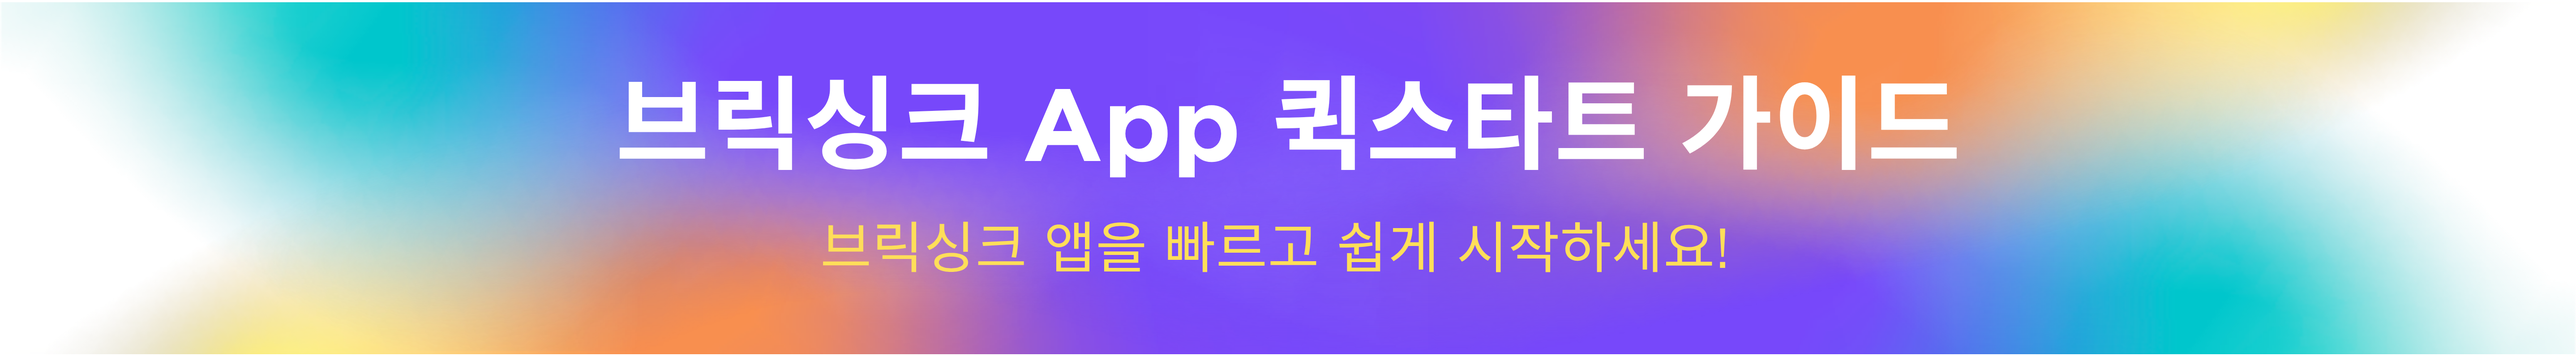
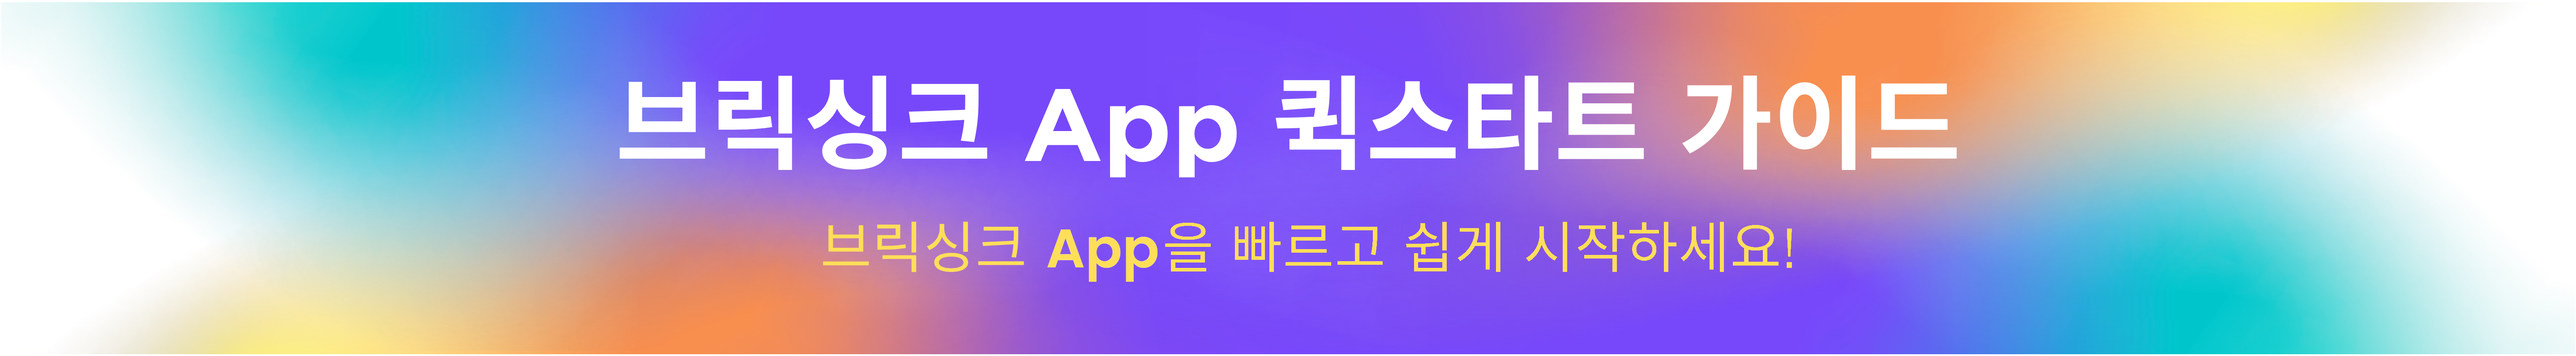
Standardize app branding to "브릭싱크 App" and drop News nav item
Unifies the mixed "BrickSync 앱" / "브릭싱크 앱" wording across the About
page (title, section heading, quickstart banner subtitle, alt text) and
the tech nav submenu to a single consistent "브릭싱크 App". The two
about_overview_ko.png / about_startguide_banner.png banners are edited
in place to match, matching each banner's own font, weight, and color.
Also removes the now-unused "알림 & 뉴스" nav submenu entry.

Changed region(s): [[0.4045, 0.603, 0.7156, 0.7839]]

diff --git a/src/components/AboutPage.jsx b/src/components/AboutPage.jsx
@@ -4,12 +4,12 @@ import { Footer } from './Footer';
 
 const COPY = {
   ko: {
-    title: "BrickSync 앱",
+    title: "브릭싱크 App",
     subtitle: "레고 스파이크 + 레고 포트나이트",
     body1: "브릭싱크는 레고 스파이크 하드웨어와 웹 기반 AI 제스처, 음성, 비전 인식기술을 결합하여 UEFN 기반의 포트나이트 맵 '더 브릭 아일랜드'와 실시간 상호작용을 가능하게 하는 혁신적인 Physics + Digital 컴퓨팅 및 AI 코딩 교육 플랫폼입니다.",
     body2: "학생들이 직관적인 아이콘 블록 코딩으로 만든 AI 알고리즘을 실행하면, 게임 내 레고 포트나이트 맵이 실시간 반응하고 즉각적인 코인 보상을 제공하여 컴퓨팅 사고력을 향상시키는 몰입형 학습 경험을 선사합니다.",
     websiteLabel: "www.bricksync.org",
-    coreTitle: "브릭싱크 앱의 3가지 핵심 구성요소",
+    coreTitle: "브릭싱크 App의 3가지 핵심 구성요소",
     coreSubtitle: "AI와 실시간 컴퓨팅을 통해 피지컬 놀이와 디지털 세상을 연결합니다",
     cores: [
       {
@@ -38,7 +38,7 @@ const COPY = {
       },
     ],
     startGuideTitle: "브릭싱크 App 퀵스타트 가이드",
-    startGuideSubtitle: "브릭싱크 앱을 빠르고 쉽게 시작하세요!",
+    startGuideSubtitle: "브릭싱크 App을 빠르고 쉽게 시작하세요!",
     brickIslandTitle: "'더 브릭 아일랜드' 가상 공간 연결",
     brickIslandSubtitle: "브릭싱크를 포트나이트 맵에 연동하여 학습해보세요!",
   },
@@ -108,7 +108,7 @@ export const AboutPage = ({ setCurrentView }) => {
         {lang === 'ko' ? (
           <img
             src="/images/about_overview_ko.png"
-            alt="BrickSync 앱 - 레고 스파이크 + 레고 포트나이트"
+            alt="브릭싱크 App - 레고 스파이크 + 레고 포트나이트"
             className="w-full max-w-[1600px] h-auto object-contain flex-shrink-0 mt-16 sm:mt-24 mb-20 sm:mb-32 rounded-2xl"
           />
         ) : (
@@ -189,7 +189,7 @@ export const AboutPage = ({ setCurrentView }) => {
             {/* Quick Start Guide banner + video */}
             <img
               src="/images/about_startguide_banner.png"
-              alt="브릭싱크 App 퀵스타트 가이드 - 브릭싱크 앱을 빠르고 쉽게 시작하세요!"
+              alt="브릭싱크 App 퀵스타트 가이드 - 브릭싱크 App을 빠르고 쉽게 시작하세요!"
               className="w-full max-w-[1600px] h-auto object-cover"
             />
             <div className="w-full max-w-[1440px] flex flex-col items-center pt-10 sm:pt-14 pb-20 sm:pb-24 px-4 sm:px-8">

diff --git a/src/data/content.js b/src/data/content.js
@@ -14,7 +14,7 @@ export const content = {
           title: "기술",
           view: "about",
           submenu: [
-            { title: "브릭싱크 웹앱", view: "about" },
+            { title: "브릭싱크 App", view: "about" },
             { title: "퀵스타트 가이드", view: "quickstart" },
             { title: "다운로드", view: "download" }
           ]
@@ -32,7 +32,6 @@ export const content = {
           title: "문의",
           view: "contact",
           submenu: [
-            { title: "알림 & 뉴스", view: "news" },
             { title: "FAQ", view: "faq" },
             { title: "1:1 상담 문의", view: "contact" }
           ]
@@ -402,7 +401,6 @@ export const content = {
           title: "Contact",
           view: "contact",
           submenu: [
-            { title: "Notifications & News", view: "news" },
             { title: "FAQ", view: "faq" },
             { title: "1:1 Consultation", view: "contact" }
           ]
